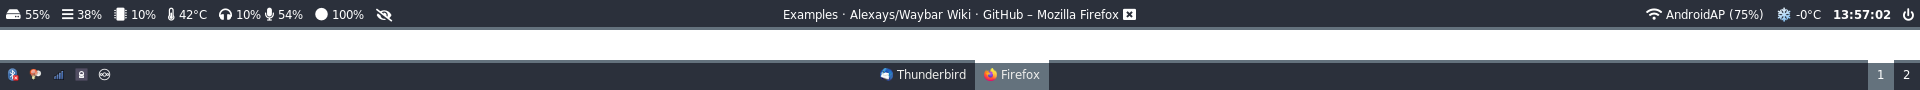
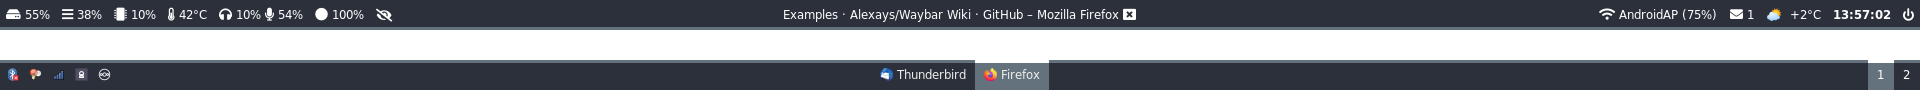
mail module

Changed region(s): [[0.8125, 0.0889, 0.9375, 0.2222]]

diff --git a/waybar/style.css b/waybar/style.css
@@ -55,6 +55,7 @@ window#waybar.empty {
 #battery.bat2,
 #clock,
 #cpu,
+#custom-mail,
 #custom-poweroff,
 #custom-weather,
 #disk,
